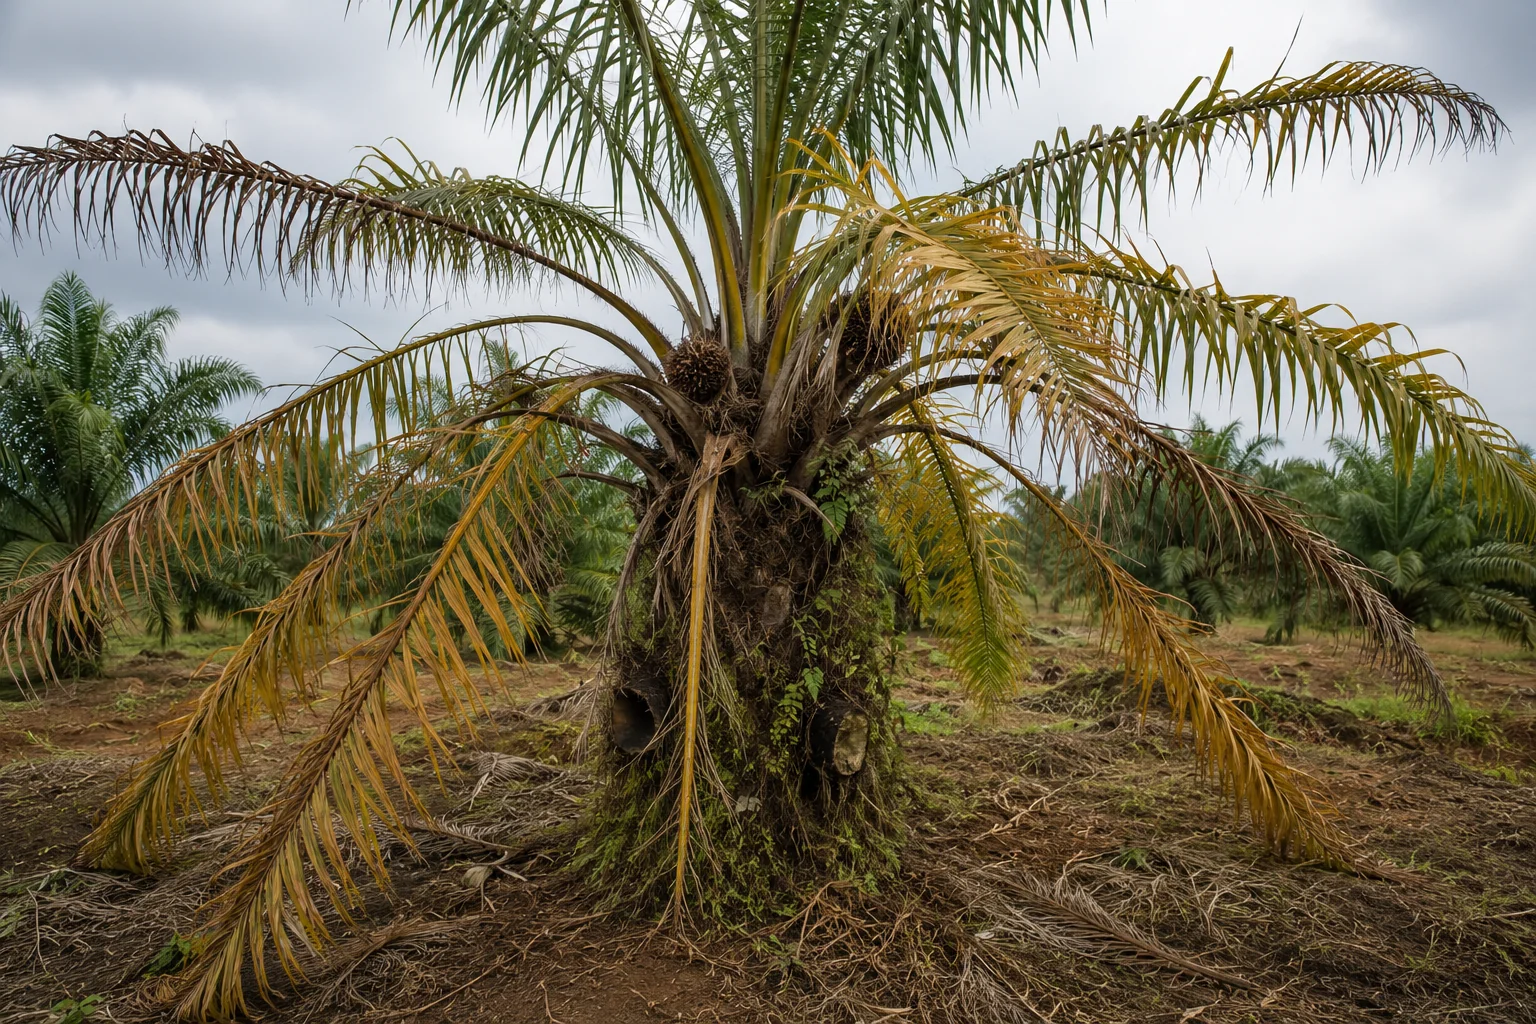
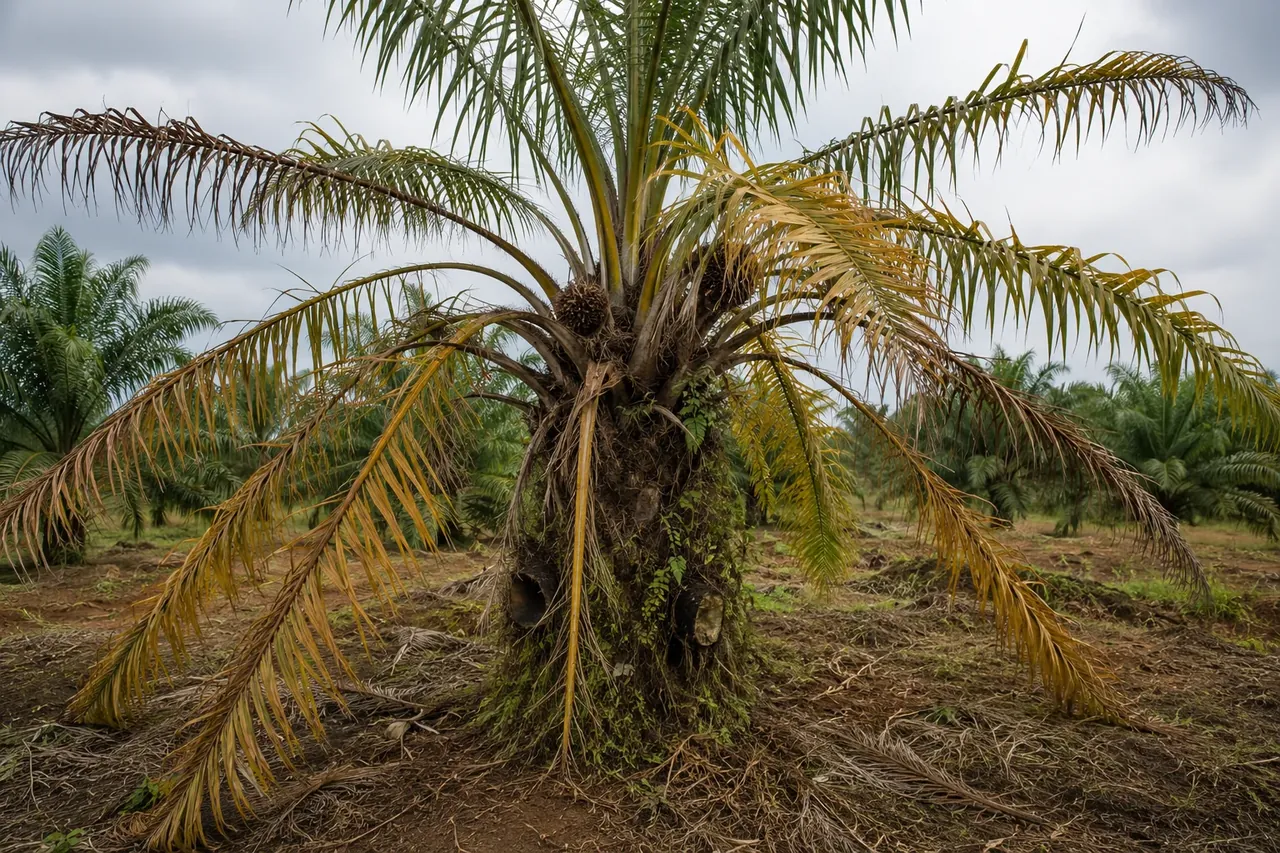
perf(images): hold storefront imagery to the product's upload policy
Landing images within 1280 px at WebP q80 (7.7 MB -> 6.4 MB), card
derivatives for product photos used by the home grid and testimoni, 168 px
field-story thumbnails, and each landing hero preloaded at high priority.
BUILD-LOG records the review, the soft 480 px source images, and an
intermittent local dev-runtime crash still open.

diff --git a/BUILD-LOG.md b/BUILD-LOG.md
@@ -6518,3 +6518,45 @@ files (stars in the source's yellow, `#FFCE3D`), and the four products'
 the source — Aussie, Bensu, Saratoga, Kojien. The column is used for ordering
 only; Kojien's real creation date (2026-10-05) is recorded here because the
 row no longer carries it.
+
+### 2026-10-06 — Images held to the product's upload policy
+
+Every image the storefront serves now follows `src/lib/client-image.ts`
+(WebP, longest edge 1280, quality 80, a WebP of 100 KB or less within the
+edge left alone, a 480 px `-sm` card derivative beside each product photo).
+R2 originals were downloaded and inspected locally first.
+
+- **Static landing imagery** (`public/images/landing/`): 19 files re-encoded
+  or brought within 1280 px — 16 were wider (1536 px photos, 1672 px chat
+  screenshots) — 7.7 MB → 6.4 MB; a 720 px chat screenshot was checked and
+  stays legible. Two Saratoga Anggrek images rendered at 167 CSS px drop from
+  1000 px to 480 px (51/42 KB → 14/12 KB). Every file is referenced; the one
+  orphaned by the change below was removed.
+- **Card derivatives.** The four product photos had no `-sm` sibling, so every
+  card fell back to the full file. 480 px derivatives (7–10 KB against
+  30–44 KB) are in R2, local and production, under the key `cardImageSrc`
+  asks for; the home grid and the testimoni thumbnails now ask for them.
+- **Field-story avatars** render at 56 px but pointed at 480–640 px photos
+  (64–87 KB each); 168 px thumbnails (~10 KB) in `landing/proofs/`, with the
+  home content repointed by `json_set`, guarded on the three names.
+- **Landing LCP.** Each landing's hero is preloaded through BaseLayout and
+  carries `fetchpriority="high"`; everything below it was already lazy.
+
+**Review findings left for the owner.** Several source images are only
+480 px wide (the Bensu Jagung set, Saratoga Padi testimonials,
+`aussie/produk`) and render at 350–390 CSS px, so they look soft on a dense
+phone screen — as on petanisejahtera.com. Upscaling adds no detail; they need
+higher-resolution originals. The superseded R2 uploads (three 2026-09-05
+photos and the 2026-10-05 Kojien photo) are unreferenced and were left in the
+bucket: deleting them is the owner's call.
+
+**Open: the local dev runtime crashes intermittently.** During this pass
+`npm run dev:local` (wrangler 4.120 / miniflare) died with "Error inside
+ProxyWorker: Network connection lost" a handful of page loads into a browser
+sweep — no error from application code, no reload, and not reproducible with
+direct requests (sequential, 100 in parallel, or aborted mid-stream) or with
+repeated single-tab navigation. The same build crashed on one sweep and
+passed 30/30 on the next, so the bisect toward the card-derivative change is
+not conclusive. Production runs neither ProxyWorker nor miniflare; it is
+verified directly after deploy. Upgrading wrangler (4.147 is current) is the
+first thing to try if it keeps happening.

diff --git a/docs/ROUTE-MAP.md b/docs/ROUTE-MAP.md
@@ -45,7 +45,7 @@ The [Modules](#modules) section is the same book read from the other side.
 | `/sitemap` | GET | public | — | `src/pages/sitemap.astro` | `catalog` `landing-pages` | `landing_pages` `landing_sections` `product_variants` `products` | `catalog.test.ts` `landing-pages.test.ts` |
 | `/syarat-ketentuan` | GET | public | — | `src/pages/syarat-ketentuan.astro` | — | — | — |
 | `/tentang` | GET | public | — | `src/pages/tentang.astro` | — | — | — |
-| `/testimoni` | GET | public | — | `src/pages/testimoni.astro` | `catalog` | `product_variants` `products` | `catalog.test.ts` |
+| `/testimoni` | GET | public | — | `src/pages/testimoni.astro` | `catalog` `image-derivative` | `product_variants` `products` | `catalog.test.ts` `image-derivative.test.ts` |
 
 ## Landing page (4)
 
@@ -244,7 +244,7 @@ is either transitive (imported by another lib) or dead, and only reading tells w
 | `headless-client` | 14 | — | ✓ | — |
 | `headless-openapi` | 1 | — | ✓ | `/api/v1/openapi.json` |
 | `html-escape` | 1 | — | ✓ | — |
-| `image-derivative` | 1 | — | ✓ | `/404` |
+| `image-derivative` | 1 | — | ✓ | `/404` `/testimoni` |
 | `install` | 6 | `admin_credentials` `courier_rules` `stores` | ✓ | `/api/install` |
 | `json-ld` | 14 | — | ✓ | — |
 | `json-script` | 1 | — | ✓ | — |
